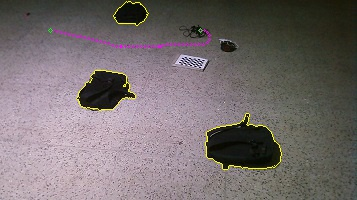
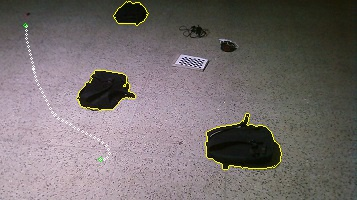
A-star Output Images updated

diff --git a/A-star-potential-field-hybrid-type-1.py b/A-star-potential-field-hybrid-type-1.py
@@ -379,7 +379,7 @@ def path_planning(arr, sx1, sy1, dx, dy, theta):
 def final_path(sol, arr):
     l = len(sol)
     print l
-    div = 40
+    div = 45
 
     start = 0
     end = div
@@ -453,10 +453,10 @@ def main():
         '''
         Code from A-star.py
         '''
-        sx = 30 # raw_input("Enter source and destination Coordinates")
-        sy = 50  # raw_input()
-        dx = 30   # raw_input()
-        dy = 200  # raw_input()
+        sx = 25 # raw_input("Enter source and destination Coordinates")
+        sy = 25  # raw_input()
+        dx = 159   # raw_input()
+        dy = 100  # raw_input()
 
         sol = bfs(arr, sx, sy, dx, dy, final_contours)
         solution = final_path(sol, arr1)
@@ -466,8 +466,8 @@ def main():
         else:
             for i in range(len(solution)):
                 start = (solution[i][1], solution[i][0])
-                cv2.circle(arr,start, 1, [255, 0, 255])
-                cv2.circle(img, start, 1, [255, 0, 255])
+                cv2.circle(arr,start, 1, [255, 255, 255])
+                cv2.circle(img, start, 1, [255, 255, 255])
 
         cv2.circle(arr, (sy, sx), 2, [0, 255, 0])
         cv2.circle(arr, (dy, dx), 2, [0, 255, 0])

diff --git a/A-star-potetial-field-hybrid-type-2.py b/A-star-potetial-field-hybrid-type-2.py
@@ -435,7 +435,7 @@ def make_path(sx, sy, dx, dy):
 
 def final_path(sx, sy, dx, dy, arr, sol):
     print 'len ', len(sol)
-    switch_d = 30
+    switch_d = 35
     solution = []
     delta = 5
     theta = math.pi/8
@@ -541,8 +541,8 @@ def main():
         '''
         Code from A-star.py
         '''
-        sx = 5 # raw_input("Enter source and destination Coordinates")
-        sy = 5  # raw_input()
+        sx = 25 # raw_input("Enter source and destination Coordinates")
+        sy = 25  # raw_input()
         dx = 159   # raw_input()
         dy = 100 # raw_input()
 
@@ -560,9 +560,9 @@ def main():
         else:
             for i in range(len(solution)):
                 start = (solution[i][1], solution[i][0])
-                cv2.circle(arr,start, 1, [255, 0, 255])
-                cv2.circle(img, start, 1, [255, 0, 255])
-                cv2.circle(arr1, start, 1, [255, 0, 255])
+                cv2.circle(arr,start, 1, [255, 255, 255])
+                cv2.circle(img, start, 1, [255, 255, 255])
+                cv2.circle(arr1, start, 1, [255, 255, 255])
 
         cv2.circle(arr, (sy, sx), 2, [0, 255, 0])
         cv2.circle(arr, (dy, dx), 2, [0, 255, 0])
